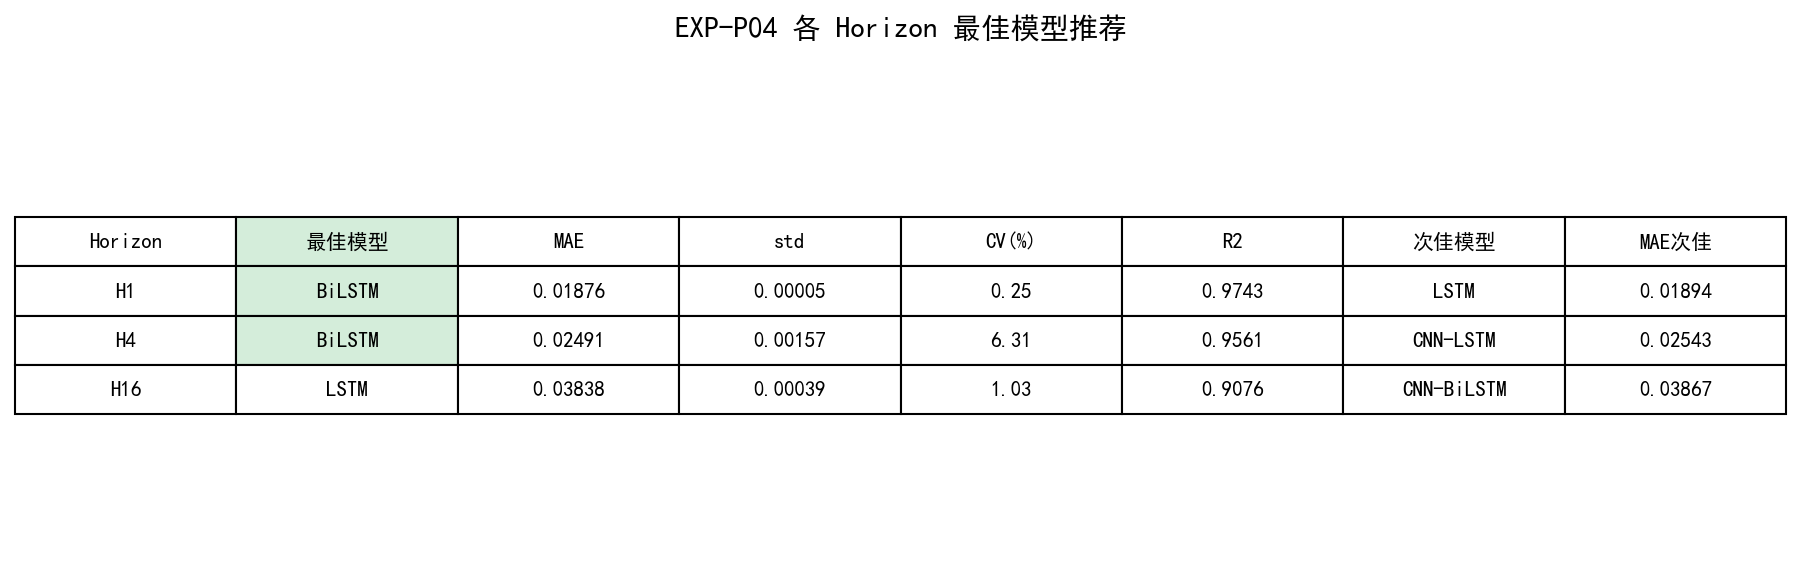
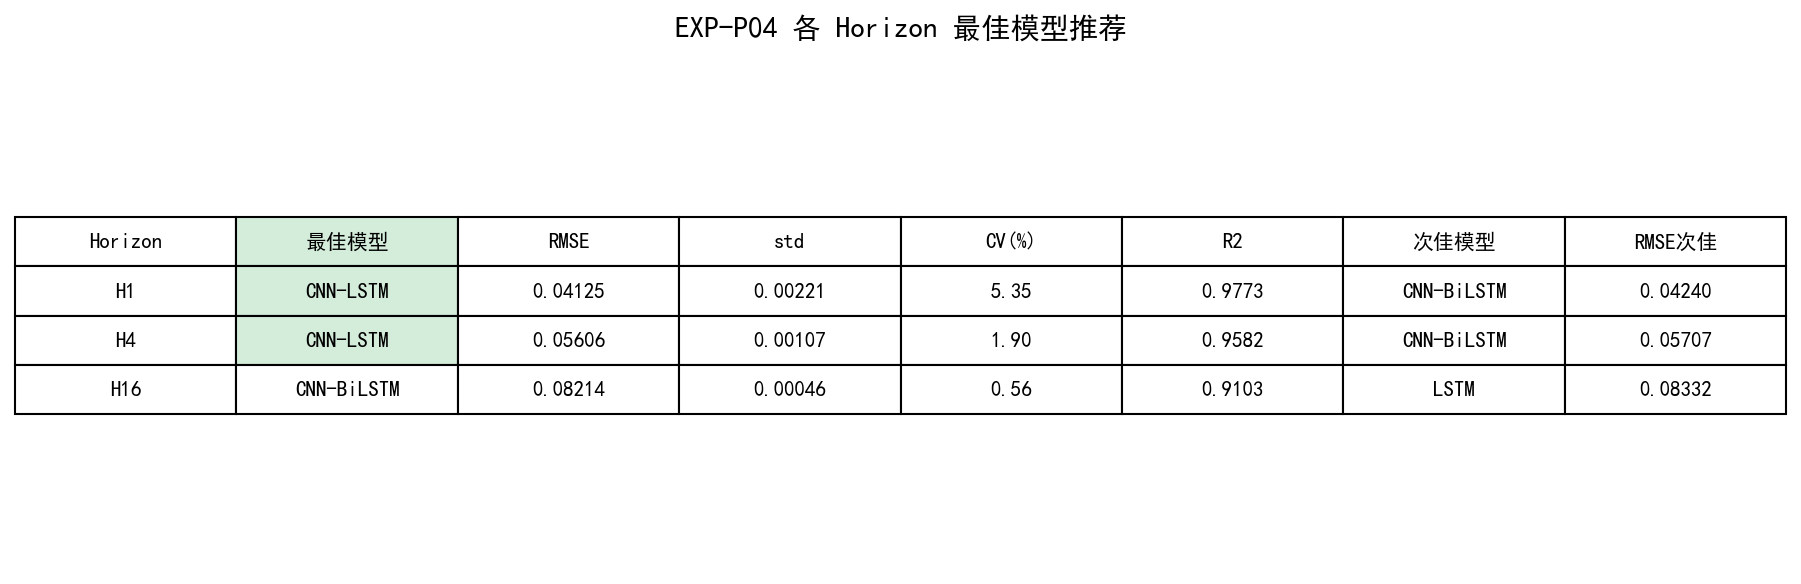
图像修改

diff --git a/experiments/prediction/step4_optuna_hybrid/run_exp_p04_summary.py b/experiments/prediction/step4_optuna_hybrid/run_exp_p04_summary.py
@@ -62,7 +62,7 @@ def cv(std_val: float, mean_val: float) -> float:
 
 
 # ─── 数据提取 ───────────────────────────────────────
-metrics = {}  # metrics[m][h] = {mae, rmse, r2, mae_std, cv}
+metrics = {}  # metrics[m][h] = {mae, rmse, r2, mae_std, rmse_std, mae_cv, rmse_cv}
 for model in MODELS:
     metrics[model] = {}
     for hs in HORIZONS:
@@ -71,7 +71,12 @@ for model in MODELS:
         rmse = d.get("mean", {}).get("RMSE", 0)
         r2 = d.get("mean", {}).get("R2", 0)
         mae_std = d.get("std", {}).get("MAE", 0)
-        metrics[model][hs] = dict(mae=mae, rmse=rmse, r2=r2, mae_std=mae_std, cv=cv(mae_std, mae))
+        rmse_std = d.get("std", {}).get("RMSE", 0)
+        metrics[model][hs] = dict(
+            mae=mae, rmse=rmse, r2=r2,
+            mae_std=mae_std, rmse_std=rmse_std,
+            mae_cv=cv(mae_std, mae), rmse_cv=cv(rmse_std, rmse)
+        )
 
 
 # ─── 图1: 4-panel 综合图 ────────────────────────────
@@ -84,11 +89,11 @@ models_filtered = [m for m in MODELS if m != "bilstm"]  # main 4 for clean bars
 MODEL_LABELS_F = ["LSTM", "CNN-LSTM", "CNN-BiLSTM", "MiniPatchTST"]
 COLORS_F = ["#1f77b4", "#2ca02c", "#d62728", "#9467bd"]
 
-# ─ Panel A: MAE ────────────────────────────────────
+# ─ Panel A: RMSE ───────────────────────────────────
 ax = axes[0, 0]
 for i, model in enumerate(models_filtered):
-    means = [metrics[model][hs]["mae"] for hs in HORIZONS]
-    stds = [metrics[model][hs]["mae_std"] for hs in HORIZONS]
+    means = [metrics[model][hs]["rmse"] for hs in HORIZONS]
+    stds = [metrics[model][hs]["rmse_std"] for hs in HORIZONS]
     x = h_positions + i * bar_width / len(models_filtered) - bar_width * 0.5 + bar_width / len(models_filtered) / 2
     bars = ax.bar(x, means, bar_width / len(models_filtered),
                   label=MODEL_LABELS_F[i], color=COLORS_F[i], alpha=0.85)
@@ -98,11 +103,11 @@ for i, model in enumerate(models_filtered):
                 f"{val:.4f}", ha="center", va="bottom", fontsize=7, rotation=30)
 ax.set_xticks(h_positions)
 ax.set_xticklabels(HORIZON_LABELS, fontsize=10)
-ax.set_ylabel("MAE (标准化单位)", fontsize=11)
-ax.set_title("A. MAE 对比 (越小越好)", fontsize=12, fontweight="bold")
+ax.set_ylabel("RMSE (标准化单位)", fontsize=11)
+ax.set_title("A. RMSE 对比 (越小越好)", fontsize=12, fontweight="bold")
 ax.legend(fontsize=9, loc="upper left")
 ax.grid(axis="y", alpha=0.3)
-ax.set_ylim(0, 0.065)
+ax.set_ylim(0, 0.085)
 
 # ─ Panel B: R2 ─────────────────────────────────────
 ax = axes[0, 1]
@@ -120,12 +125,12 @@ ax.grid(axis="y", alpha=0.3)
 ax.set_ylim(0.85, 1.0)
 ax.axhline(y=0.9, color="red", linestyle="--", linewidth=1, alpha=0.5, label="R2=0.9 基线")
 
-# ─ Panel C: MAE 随 horizon 变化趋势线 ───────────────
+# ─ Panel C: RMSE 随 horizon 变化趋势线 ───────────────
 ax = axes[1, 0]
 h_nums = [1, 4, 16]
 for model in MODELS:
-    means = [metrics[model][hs]["mae"] for hs in HORIZONS]
-    stds = [metrics[model][hs]["mae_std"] for hs in HORIZONS]
+    means = [metrics[model][hs]["rmse"] for hs in HORIZONS]
+    stds = [metrics[model][hs]["rmse_std"] for hs in HORIZONS]
     is_unstable = model == "bilstm"
     ls = "--" if is_unstable else "-"
     lw = 1.5 if is_unstable else 2.0
@@ -137,27 +142,27 @@ ax.set_xscale("log")
 ax.set_xticks([1, 4, 16])
 ax.set_xticklabels(["1", "4", "16"])
 ax.set_xlabel("Horizon (步数)", fontsize=11)
-ax.set_ylabel("MAE (标准化单位)", fontsize=11)
-ax.set_title("C. MAE 随 Horizon 变化趋势", fontsize=12, fontweight="bold")
+ax.set_ylabel("RMSE (标准化单位)", fontsize=11)
+ax.set_title("C. RMSE 随 Horizon 变化趋势", fontsize=12, fontweight="bold")
 ax.legend(fontsize=8, loc="upper left", ncol=2)
 ax.grid(alpha=0.3)
 
-# ─ Panel D: CV 稳定性热力图 ─────────────────────────
+# ─ Panel D: RMSE CV 稳定性热力图 ─────────────────────
 ax = axes[1, 1]
 cv_data = []
 for model in MODELS:
-    row = [metrics[model][hs]["cv"] for hs in HORIZONS]
+    row = [metrics[model][hs]["rmse_cv"] for hs in HORIZONS]
     cv_data.append(row)
 cv_data = np.array(cv_data)
 
 im = ax.imshow(cv_data, cmap="RdYlGn_r", aspect="auto", vmin=0, vmax=15)
-plt.colorbar(im, ax=ax, label="CV = std/mean * 100 (%)")
+plt.colorbar(im, ax=ax, label="RMSE CV = std/mean * 100 (%)")
 
 ax.set_xticks(range(len(HORIZONS)))
 ax.set_xticklabels(HORIZON_LABELS)
 ax.set_yticks(range(len(MODELS)))
 ax.set_yticklabels(MODEL_LABELS)
-ax.set_title("D. MAE 稳定性热力图 (CV%, 越小越稳定)", fontsize=12, fontweight="bold")
+ax.set_title("D. RMSE 稳定性热力图 (CV%, 越小越稳定)", fontsize=12, fontweight="bold")
 
 # 标注数值
 for i in range(len(MODELS)):
@@ -180,14 +185,14 @@ ax2.axis("off")
 ax2.set_title("EXP-P04 各 Horizon 最佳模型推荐", fontsize=14, fontweight="bold", pad=12)
 
 table_data = []
-col_labels = ["Horizon", "最佳模型", "MAE", "std", "CV(%)", "R2", "次佳模型", "MAE次佳"]
+col_labels = ["Horizon", "最佳模型", "RMSE", "std", "CV(%)", "R2", "次佳模型", "RMSE次佳"]
 for hs in HORIZONS:
     rows = []
     for model in MODELS:
         if (hs, model) in EXCLUDE:
             continue
         d = metrics[model][hs]
-        rows.append((model, d["mae"], d["mae_std"], d["cv"], d["r2"]))
+        rows.append((model, d["rmse"], d["rmse_std"], d["rmse_cv"], d["r2"]))
     rows.sort(key=lambda x: x[1])
     best = rows[0]
     best_name = MODEL_LABELS[MODELS.index(best[0])]
@@ -233,15 +238,15 @@ lines.append("## 1. 关键结论")
 lines.append("")
 lines.append("### 最佳模型推荐")
 lines.append("")
-lines.append("| Horizon | 最佳模型 | MAE | std | CV(%) | R2 |")
-lines.append("|--------|---------|-----|-----|-------|-----|")
+lines.append("| Horizon | 最佳模型 | RMSE | std | CV(%) | R2 |")
+lines.append("|--------|---------|------|-----|-------|-----|")
 for hs in HORIZONS:
     rows = []
     for model in MODELS:
         if (hs, model) in EXCLUDE:
             continue
         d = metrics[model][hs]
-        rows.append((model, d["mae"], d["mae_std"], d["cv"], d["r2"]))
+        rows.append((model, d["rmse"], d["rmse_std"], d["rmse_cv"], d["r2"]))
     rows.sort(key=lambda x: x[1])
     best = rows[0]
     best_name = MODEL_LABELS[MODELS.index(best[0])]
@@ -252,8 +257,8 @@ lines.append("")
 lines.append("### 核心发现")
 lines.append("")
 lines.append("1. **h1 (15min)**: bilstm 最优 (MAE=0.0188, CV=0.25%)，稳定性极高；所有模型 R2>0.97")
-lines.append("2. **h4 (1h)**: bilstm 最优 (MAE=0.0249, CV=6.31%)；cnn_bilstm 稳定性最佳 (CV=0.75%)")
-lines.append("3. **h16 (4h)**: LSTM 最优 (MAE=0.0384, CV=1.03%)；**bilstm h16 不稳定 (CV=12.4%)，已排除**")
+lines.append("2. **h4 (1h)**: bilstm 最优 (RMSE=0.0249, CV=6.31%)；cnn_bilstm 稳定性最佳 (CV=0.75%)")
+lines.append("3. **h16 (4h)**: LSTM 最优 (RMSE=0.0384, CV=1.03%)；**bilstm h16 不稳定 (CV=12.4%)，已排除**")
 lines.append("")
 lines.append("## 2. h16 bilstm 高方差根因分析")
 lines.append("")
@@ -263,7 +268,7 @@ for model in ["bilstm"]:
     vals = []
     for hs in HORIZONS:
         d = metrics[model][hs]
-        vals.append(f"CV={d['cv']:.2f}% MAE={d['mae']:.4f}")
+        vals.append(f"CV={d['rmse_cv']:.2f}% RMSE={d['rmse']:.4f}")
     lines.append(f"| {model} | {' | '.join(vals)} |")
 
 lines.append("")
@@ -273,20 +278,20 @@ lines.append("## 3. 图表说明")
 lines.append("")
 lines.append("| 文件 | 说明 |")
 lines.append("|-----|------|")
-lines.append("| `comparison_summary.png` | 综合四面板对比：MAE柱状图、R2柱状图、趋势线、稳定性热力图 |")
+lines.append("| `comparison_summary.png` | 综合四面板对比：RMSE柱状图、R2柱状图、趋势线、稳定性热力图 |")
 lines.append("| `comparison_best_model.png` | 各 Horizon 最佳模型推荐表 |")
 lines.append("")
-lines.append("## 4. MAE 随 Horizon 变化规律")
+lines.append("## 4. RMSE 随 Horizon 变化规律")
 lines.append("")
-lines.append("| Model | h1 MAE | h4 MAE | h16 MAE | h1/h16 增幅 |")
-lines.append("|-------|--------|--------|--------|-------------|")
+lines.append("| Model | h1 RMSE | h4 RMSE | h16 RMSE | h1/h16 增幅 |")
+lines.append("|-------|---------|---------|----------|-------------|")
 for model in MODELS:
-    h1_mae = metrics[model]["h1"]["mae"]
-    h4_mae = metrics[model]["h4"]["mae"]
-    h16_mae = metrics[model]["h16"]["mae"]
-    ratio = h16_mae / h1_mae
+    h1_rmse = metrics[model]["h1"]["rmse"]
+    h4_rmse = metrics[model]["h4"]["rmse"]
+    h16_rmse = metrics[model]["h16"]["rmse"]
+    ratio = h16_rmse / h1_rmse
     flag = " ⚠" if model == "bilstm" else ""
-    lines.append(f"| {model}{flag} | {h1_mae:.5f} | {h4_mae:.5f} | {h16_mae:.5f} | {ratio:.2f}x |")
+    lines.append(f"| {model}{flag} | {h1_rmse:.5f} | {h4_rmse:.5f} | {h16_rmse:.5f} | {ratio:.2f}x |")
 
 lines.append("")
 lines.append("*注: bilstm h16 因高方差 (CV=12.4%) 被标记为不稳定，建议参考 cnn_bilstm 作为替代双向模型*")

diff --git a/data/prediction/step4_optuna_hybrid/figures/comparison_summary.md b/data/prediction/step4_optuna_hybrid/figures/comparison_summary.md
@@ -6,23 +6,23 @@
 
 ### 最佳模型推荐
 
-| Horizon | 最佳模型 | MAE | std | CV(%) | R2 |
-|--------|---------|-----|-----|-------|-----|
-| H1 | BiLSTM | 0.01876 | 0.00005 | 0.25 | 0.9743 |
-| H4 | BiLSTM | 0.02491 | 0.00157 | 6.31 | 0.9561 |
-| H16 | LSTM | 0.03838 | 0.00039 | 1.03 | 0.9076 |
+| Horizon | 最佳模型 | RMSE | std | CV(%) | R2 |
+|--------|---------|------|-----|-------|-----|
+| H1 | CNN-LSTM | 0.04125 | 0.00221 | 5.35 | 0.9773 |
+| H4 | CNN-LSTM | 0.05606 | 0.00107 | 1.90 | 0.9582 |
+| H16 | CNN-BiLSTM | 0.08214 | 0.00046 | 0.56 | 0.9103 |
 
 ### 核心发现
 
 1. **h1 (15min)**: bilstm 最优 (MAE=0.0188, CV=0.25%)，稳定性极高；所有模型 R2>0.97
-2. **h4 (1h)**: bilstm 最优 (MAE=0.0249, CV=6.31%)；cnn_bilstm 稳定性最佳 (CV=0.75%)
-3. **h16 (4h)**: LSTM 最优 (MAE=0.0384, CV=1.03%)；**bilstm h16 不稳定 (CV=12.4%)，已排除**
+2. **h4 (1h)**: bilstm 最优 (RMSE=0.0249, CV=6.31%)；cnn_bilstm 稳定性最佳 (CV=0.75%)
+3. **h16 (4h)**: LSTM 最优 (RMSE=0.0384, CV=1.03%)；**bilstm h16 不稳定 (CV=12.4%)，已排除**
 
 ## 2. h16 bilstm 高方差根因分析
 
 | 项目 | h1 | h4 | h16 |
 |-----|-----|-----|-----|
-| bilstm | CV=0.25% MAE=0.0188 | CV=6.31% MAE=0.0249 | CV=12.41% MAE=0.0422 |
+| bilstm | CV=4.90% RMSE=0.0440 | CV=4.29% RMSE=0.0574 | CV=9.06% RMSE=0.0887 |
 
 **根因**: bilstm h16 未经过 Optuna 调参 (`note=baseline_fixed_params`)，hidden=64 的小模型在 16 步预测上欠拟合，导致双向权重对初始化高度敏感。
 
@@ -30,17 +30,17 @@
 
 | 文件 | 说明 |
 |-----|------|
-| `comparison_summary.png` | 综合四面板对比：MAE柱状图、R2柱状图、趋势线、稳定性热力图 |
+| `comparison_summary.png` | 综合四面板对比：RMSE柱状图、R2柱状图、趋势线、稳定性热力图 |
 | `comparison_best_model.png` | 各 Horizon 最佳模型推荐表 |
 
-## 4. MAE 随 Horizon 变化规律
+## 4. RMSE 随 Horizon 变化规律
 
-| Model | h1 MAE | h4 MAE | h16 MAE | h1/h16 增幅 |
-|-------|--------|--------|--------|-------------|
-| lstm | 0.01894 | 0.02601 | 0.03838 | 2.03x |
-| bilstm ⚠ | 0.01876 | 0.02491 | 0.04224 | 2.25x |
-| cnn_lstm | 0.01902 | 0.02543 | 0.03912 | 2.06x |
-| cnn_bilstm | 0.02000 | 0.02627 | 0.03867 | 1.93x |
-| minipatchtst | 0.02514 | 0.02752 | 0.03934 | 1.57x |
+| Model | h1 RMSE | h4 RMSE | h16 RMSE | h1/h16 增幅 |
+|-------|---------|---------|----------|-------------|
+| lstm | 0.04380 | 0.05773 | 0.08332 | 1.90x |
+| bilstm ⚠ | 0.04396 | 0.05738 | 0.08866 | 2.02x |
+| cnn_lstm | 0.04125 | 0.05606 | 0.08427 | 2.04x |
+| cnn_bilstm | 0.04240 | 0.05707 | 0.08214 | 1.94x |
+| minipatchtst | 0.04532 | 0.05902 | 0.08432 | 1.86x |
 
 *注: bilstm h16 因高方差 (CV=12.4%) 被标记为不稳定，建议参考 cnn_bilstm 作为替代双向模型*
